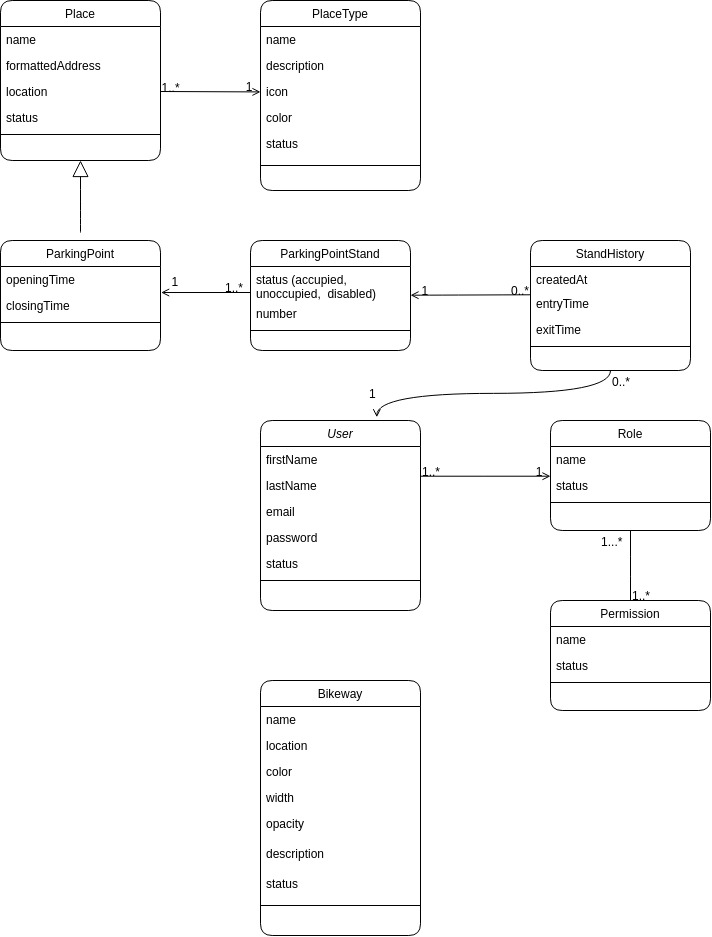
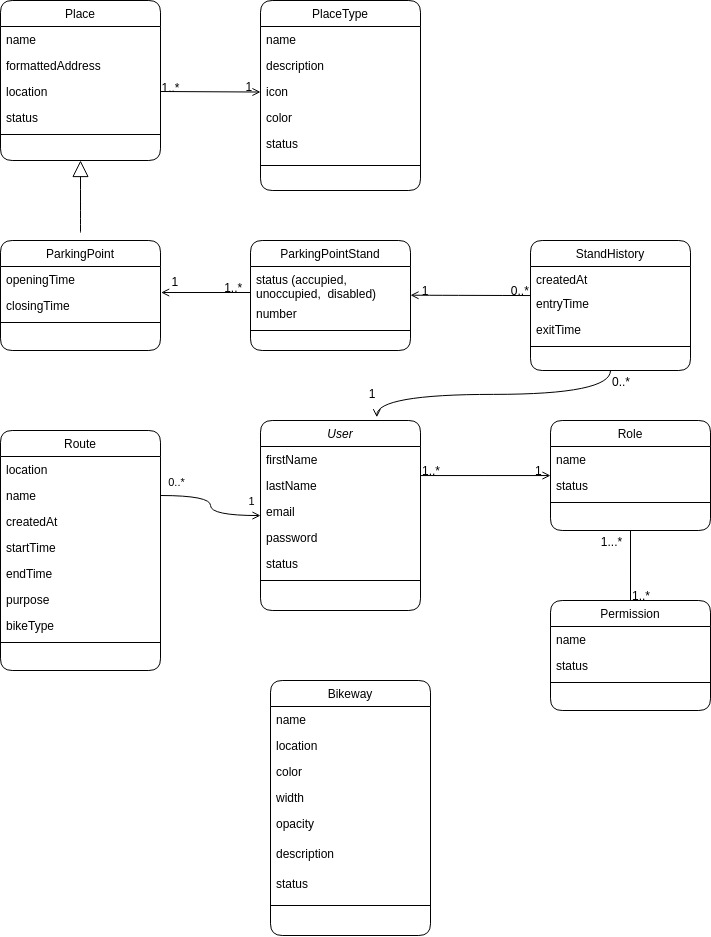
Route features

diff --git a/src/controllers/route.controller.ts b/src/controllers/route.controller.ts
@@ -1,0 +1,72 @@
+import { Request, Response } from "express";
+import { NotFoundError } from "../helpers/errors";
+import { Route } from "../models";
+
+/**
+ * Get all routes.
+ * @route GET /route/
+ */
+export const all = async (req: Request, res: Response) => {
+  const routes = await Route.find().select("-location").populate("user");
+  return res.json(routes);
+};
+
+/**
+ * Get all routes.
+ * @route GET /route/me
+ */
+export const allMe = async (req: Request, res: Response) => {
+  const routes = await Route.find({ user: req.currentUser!.id }).select(
+    "-location"
+  );
+  return res.json(routes);
+};
+
+/**
+ * Get one route.
+ * @route GET /route/:id
+ */
+export const one = async (req: Request, res: Response) => {
+  const route = await Route.findById(req.params.id).populate("user");
+  if (!route) throw new NotFoundError();
+
+  return res.json(route);
+};
+
+/**
+ * Get current route per cyclist.
+ * @route GET /route/current
+ */
+export const currentRoute = async (req: Request, res: Response) => {
+  const route = await Route.findOne({
+    user: req.currentUser!.id,
+    location: { $exists: false },
+  });
+  return res.json(route);
+};
+
+/**
+ * Save one route.
+ * @route POST /route/
+ */
+export const save = async (req: Request, res: Response) => {
+  const route = Route.build(req.body);
+  await route.save();
+
+  return res.status(201).json(route);
+};
+
+/**
+ * Update one route.
+ * @route PUT /route/:id
+ */
+export const update = async (req: Request, res: Response) => {
+  const route = await Route.findById(req.params.id);
+
+  if (!route) throw new NotFoundError();
+
+  route.set(req.body);
+  await route.save();
+
+  res.json(route);
+};

diff --git a/src/models/Route.model.ts b/src/models/Route.model.ts
@@ -1,0 +1,80 @@
+import mongoose from "mongoose";
+import { BikeTypes, Purposes } from "../types";
+import {
+  LineStringDocument,
+  LineStringSchema,
+} from "./schemas/LineString.schema";
+import { UserDoc } from "./User.model";
+
+interface RouteAttrs {
+  location: LineStringDocument;
+  name: string;
+  startTime: string;
+  endTime: string;
+  purpose: Purposes;
+  bikeType: BikeTypes;
+  user: string;
+}
+
+interface RouteModel extends mongoose.Model<RouteDoc> {
+  build(attrs: RouteAttrs): RouteDoc;
+}
+
+interface RouteDoc extends mongoose.Document {
+  location: LineStringDocument;
+  name: string;
+  startTime: string;
+  endTime: string;
+  purpose: Purposes;
+  bikeType: BikeTypes;
+  user: UserDoc;
+  createdAt: string;
+  updatedAt: string;
+}
+
+const RouteSchema = new mongoose.Schema(
+  {
+    location: {
+      type: LineStringSchema,
+    },
+    name: {
+      type: String,
+      required: true,
+    },
+    startTime: {
+      type: String,
+      required: true,
+    },
+    endTime: String,
+    purpose: {
+      type: String,
+      required: true,
+      enum: Object.values(Purposes),
+    },
+    bikeType: {
+      type: String,
+      required: true,
+      enum: Object.values(BikeTypes),
+    },
+    user: {
+      type: mongoose.Types.ObjectId,
+      ref: "User",
+      required: true,
+    },
+  },
+  {
+    timestamps: true,
+    toJSON: {
+      transform(doc, ret) {
+        ret.id = ret._id;
+        delete ret._id;
+      },
+    },
+  }
+);
+
+RouteSchema.statics.build = (attrs: RouteAttrs) => new Route(attrs);
+
+const Route = mongoose.model<RouteDoc, RouteModel>("Route", RouteSchema);
+
+export { Route, RouteDoc, RouteAttrs };

diff --git a/src/routes/route.routes.ts b/src/routes/route.routes.ts
@@ -1,0 +1,46 @@
+import { Router } from "express";
+import { routeController } from "../controllers";
+import { use } from "../helpers/utils";
+import { authorization, requireAuth } from "../middlewares";
+import { Permissions } from "../types";
+
+const routeRouter = Router();
+
+routeRouter.get(
+  "/",
+  requireAuth,
+  authorization(Permissions["read:routes"]),
+  use(routeController.all)
+);
+routeRouter.get(
+  "/me",
+  requireAuth,
+  authorization(Permissions["read:myRoutes"]),
+  use(routeController.allMe)
+);
+routeRouter.get(
+  "/current",
+  requireAuth,
+  authorization(Permissions["read:currentRoute"]),
+  use(routeController.currentRoute)
+);
+routeRouter.get(
+  "/:id",
+  requireAuth,
+  authorization(Permissions["read:route"]),
+  use(routeController.one)
+);
+routeRouter.post(
+  "/",
+  requireAuth,
+  authorization(Permissions["save:route"]),
+  use(routeController.save)
+);
+routeRouter.put(
+  "/:id",
+  requireAuth,
+  authorization(Permissions["update:route"]),
+  use(routeController.update)
+);
+
+export { routeRouter };

diff --git a/src/types/types.ts b/src/types/types.ts
@@ -34,6 +34,13 @@ export enum Permissions {
 
   "save:placeType" = "save:placeType",
   "update:placeType" = "update:placeType",
+
+  "read:routes" = "read:routes",
+  "read:myRoutes" = "read:myRoutes",
+  "read:currentRoute" = "read:currentRoute",
+  "read:route" = "read:route",
+  "save:route" = "save:route",
+  "update:route" = "update:route",
 }
 
 export enum PlaceTypes {
@@ -46,4 +53,17 @@ export enum ParkingPointStandStatus {
   occupied = "Ocupado",
   unoccupied = "Desocupado",
   disabled = "Deshabilitado",
+}
+
+export enum Purposes {
+  tourism = "Turismo",
+  relaxation = "Relax",
+  walkingWithChildren = "Paseo con los niños",
+  exercise = "Ejercicio",
+  transportation = "Transporte",
+}
+
+export enum BikeTypes {
+  public = "Pública",
+  private = "Privada",
 }

diff --git a/src/models/schemas/LineString.schema.ts b/src/models/schemas/LineString.schema.ts
@@ -5,15 +5,25 @@ export interface LineStringDocument extends mongoose.Document {
   coordinates: Array<number[]>;
 }
 
-export const LineStringSchema = new mongoose.Schema<LineStringDocument>({
-  type: {
-    type: String,
-    enum: ["LineString"],
-    default: "LineString",
-    required: true,
+export const LineStringSchema = new mongoose.Schema<LineStringDocument>(
+  {
+    type: {
+      type: String,
+      enum: ["LineString"],
+      default: "LineString",
+      required: true,
+    },
+    coordinates: {
+      type: [[Number]],
+      required: true,
+    },
   },
-  coordinates: {
-    type: [[Number]],
-    required: true,
-  },
-});
+  {
+    toJSON: {
+      transform(doc, ret) {
+        ret.id = ret._id;
+        delete ret._id;
+      },
+    },
+  }
+);

diff --git a/src/config/data/permissionData.ts b/src/config/data/permissionData.ts
@@ -147,4 +147,38 @@ export const permissionData: PermissionAttrs[] = [
     status: true,
     roles: [Roles.admin],
   },
+
+  /**
+   * Routes
+   */
+  {
+    name: Permissions["read:routes"],
+    status: true,
+    roles: [Roles.admin],
+  },
+  {
+    name: Permissions["read:myRoutes"],
+    status: true,
+    roles: [Roles.cyclist],
+  },
+  {
+    name: Permissions["read:currentRoute"],
+    status: true,
+    roles: [Roles.cyclist],
+  },
+  {
+    name: Permissions["read:route"],
+    status: true,
+    roles: [Roles.admin, Roles.cyclist],
+  },
+  {
+    name: Permissions["save:route"],
+    status: true,
+    roles: [Roles.cyclist],
+  },
+  {
+    name: Permissions["update:route"],
+    status: true,
+    roles: [Roles.cyclist],
+  },
 ];

diff --git a/src/routes/index.ts b/src/routes/index.ts
@@ -6,6 +6,7 @@ import { parkingPointStandRouter } from "./parkingPointStand.routes";
 import { placeRouter } from "./place.routes";
 import { placeTypeRouter } from "./placeType.routes";
 import { roleRouter } from "./role.routes";
+import { routeRouter } from "./route.routes";
 import { standHistoryRouter } from "./standHistory.routes";
 import { userRouter } from "./user.routes";
 
@@ -17,6 +18,7 @@ export default (app: Express) => {
   app.use("/place", placeRouter);
   app.use("/placetype", placeTypeRouter);
   app.use("/role", roleRouter);
+  app.use("/route", routeRouter);
   app.use("/standhistory", standHistoryRouter);
   app.use("/user", userRouter);
 };

diff --git a/src/controllers/index.ts b/src/controllers/index.ts
@@ -5,5 +5,6 @@ export * as parkingPointStandController from "./parkingPointStand.controller";
 export * as placeController from "./place.controller";
 export * as placeTypeController from "./placeType.controller";
 export * as roleController from "./role.controller";
+export * as routeController from "./route.controller";
 export * as standHistoryController from "./standHistory.controller";
 export * as userController from "./user.controller";

diff --git a/src/models/index.ts b/src/models/index.ts
@@ -5,5 +5,6 @@ export * from "./Permission.model";
 export * from "./Place.model";
 export * from "./PlaceType.model";
 export * from "./Role.model";
+export * from "./Route.model";
 export * from "./StandHistory.model";
 export * from "./User.model";
